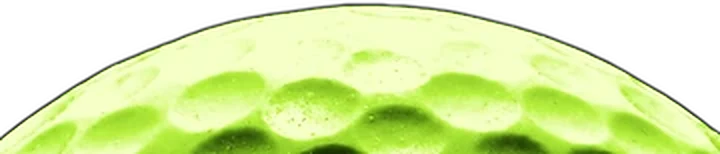
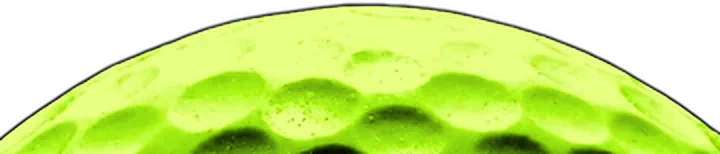
Lift the photo cap clear of the open sheet and the mic.
Raise the open scroll so the last row stays above the ball, let the full mic target receive taps, and push the lime, halo, and olive closer to the approved preview.

diff --git a/apps/mobile/app/play.tsx b/apps/mobile/app/play.tsx
@@ -1203,12 +1203,12 @@ export default function PlayScreen() {
                 <ThruBar label={thru.label} pips={thru.pips} />
               </View>
             ) : (
-              <View style={styles.tipCard}>
-                <Text style={styles.spark}>✦</Text>
-                <View style={styles.clubCopy}>
+              <View style={styles.tipCard} pointerEvents="box-none">
+                <Text pointerEvents="none" style={styles.spark}>✦</Text>
+                <View style={styles.clubCopy} pointerEvents="box-none">
                   {player == null && manual == null ? (
-                    <View style={styles.clubHead}>
-                      <Text style={[styles.line, styles.clubHeadTitle]}>Waiting for GPS</Text>
+                    <View style={styles.clubHead} pointerEvents="box-none">
+                      <Text pointerEvents="box-none" style={[styles.line, styles.clubHeadTitle]}>Waiting for GPS</Text>
                       <DictateButton
                         live={talk.phase !== 'idle'}
                         onPress={() => {
@@ -1219,9 +1219,9 @@ export default function PlayScreen() {
                     </View>
                   ) : (
                     <>
-                      <View style={styles.clubHead}>
-                        <Text style={[styles.tipTitle, styles.clubHeadTitle]} numberOfLines={1}>{`${shownLabel ?? 'Club'} · Hole ${hole.holeNumber}`}</Text>
-                        <Text style={styles.clubMeta}>{updatedLabel}</Text>
+                      <View style={styles.clubHead} pointerEvents="box-none">
+                        <Text pointerEvents="box-none" style={[styles.tipTitle, styles.clubHeadTitle]} numberOfLines={1}>{`${shownLabel ?? 'Club'} · Hole ${hole.holeNumber}`}</Text>
+                        <Text pointerEvents="box-none" style={styles.clubMeta}>{updatedLabel}</Text>
                         <DictateButton
                           live={talk.phase !== 'idle'}
                           onPress={() => {
@@ -1231,11 +1231,11 @@ export default function PlayScreen() {
                         />
                       </View>
                       {oneLiner ? (
-                        <Text style={styles.line} numberOfLines={2}>
+                        <Text pointerEvents="box-none" style={styles.line} numberOfLines={2}>
                           {oneLiner}
                         </Text>
                       ) : null}
-                      <Text style={styles.carrySentence}>
+                      <Text pointerEvents="box-none" style={styles.carrySentence}>
                         {carryYards == null ? (
                           `Carry not measured. ${PATTERN_INVITE}.`
                         ) : (
@@ -1495,12 +1495,12 @@ const styles = StyleSheet.create({
   tipCard: { flexDirection: 'row', gap: 8, alignItems: 'flex-start' },
   spark: { color: '#8AC926', fontSize: 14, lineHeight: 14 },
   tipTitle: { color: '#FFFFFF', fontFamily: font.family, fontSize: 13, lineHeight: 16, fontWeight: '700' },
-  clubHead: { flexDirection: 'row', alignItems: 'center', gap: 8, minHeight: 18, overflow: 'visible' },
+  clubHead: { flexDirection: 'row', alignItems: 'center', gap: 8, minHeight: 18, overflow: 'visible', zIndex: 6 },
   clubHeadTitle: { flex: 1 },
   carrySentence: { color: '#FFFFFF', fontFamily: font.family, fontSize: 14, lineHeight: 14, fontWeight: '600' },
   carryNum: { color: '#FFFFFF', fontSize: 16, lineHeight: 18, fontWeight: '700', fontVariant: ['tabular-nums'] },
   micSlot: { width: 30, height: 18, overflow: 'visible' },
-  micHit: { position: 'absolute', width: 44, height: 44, top: -20, left: -7, alignItems: 'center', justifyContent: 'center' },
+  micHit: { position: 'absolute', width: 44, height: 44, top: -20, left: -7, alignItems: 'center', justifyContent: 'center', zIndex: 6 },
   micButton: {
     width: 28,
     height: 28,
@@ -1626,7 +1626,7 @@ const styles = StyleSheet.create({
   sheet: { position: 'absolute', left: 12, right: 12, overflow: 'hidden' },
   sheetGlass: { flex: 1 },
   sheetFill: { flex: 1, minHeight: 0 },
-  grab: { paddingTop: 0, paddingHorizontal: 12, paddingBottom: 0, zIndex: 1 },
+  grab: { paddingTop: 0, paddingHorizontal: 12, paddingBottom: 0, zIndex: 4 },
   tipHit: { marginTop: 2 },
   tip: { color: '#FFFFFF', fontFamily: font.family, fontSize: type.caption, lineHeight: 18, fontWeight: font.semibold },
   tipLink: { color: '#FFFFFF', fontFamily: font.family, fontSize: type.caption, lineHeight: 18, fontWeight: font.semibold, textDecorationLine: 'underline' },

diff --git a/apps/mobile/test/sheet-ball.test.ts b/apps/mobile/test/sheet-ball.test.ts
@@ -28,21 +28,21 @@ describe('sheet ball', () => {
   it('uses the doubled photo cap and keeps the crown under the type', () => {
     const asset = readFileSync(join(here, '../assets/images/ball-lime.webp'));
     expect(webpSize(asset)).toEqual({ width: 720, height: 154 });
-    expect(SHEET_BALL_CROWN).toBe(76);
-    expect(SHEET_BALL_CAP_HEIGHT).toBe(78);
+    expect(SHEET_BALL_CROWN).toBe(78);
+    expect(SHEET_BALL_CAP_HEIGHT).toBe(80);
     expect(oliveHeight(176)).toBe(176);
     expect(oliveHeight(540)).toBe(SHEET_BALL_OLIVE_OPEN);
     expect(oliveHeight(200)).toBe(200);
     expect(oliveHeight(400)).toBe(310);
-    expect(SHEET_BALL_TEXT.openPx).toBeGreaterThanOrEqual(86);
-    expect(SHEET_BALL_TEXT.openPx).toBeGreaterThan(SHEET_BALL_CROWN);
+    expect(SHEET_BALL_TEXT.openPx).toBeGreaterThanOrEqual(98);
+    expect(SHEET_BALL_TEXT.openPx).toBeGreaterThan(SHEET_BALL_CROWN + 8);
     expect(SHEET_BALL_TEXT.closedPx).toBeGreaterThanOrEqual(6);
   });
 
   it('keeps the mic, the tab gap, and the open-sheet fades', () => {
     expect(SHEET_BALL_SCROLL_FADE).toBe(48);
-    expect(SHEET_BALL_SCROLL_FADE_BOTTOM).toBe(18);
-    expect(SHEET_BALL_SCROLL_FADE_BOTTOM).toBeLessThan(24);
+    expect(SHEET_BALL_SCROLL_FADE_BOTTOM).toBe(8);
+    expect(SHEET_BALL_SCROLL_FADE_BOTTOM).toBeLessThan(12);
     const play = readFileSync(join(here, '../app/play.tsx'), 'utf8');
     expect(play).toContain('marginTop: SHEET_BALL_TEXT.closedPx');
     expect(play).not.toContain('!sheetOpen ? { marginTop: SHEET_BALL_TEXT.closedPx }');
@@ -56,6 +56,8 @@ describe('sheet ball', () => {
     expect(play).toContain('Dictate to caddie');
     expect(play).toContain('width: 44');
     expect(play).toContain('width: 28');
+    expect(play).toContain('zIndex: 6');
+    expect(play).toContain('pointerEvents="box-none"');
     expect(play).not.toContain('Talk to the caddie');
     expect(play).not.toContain('styles.micRow');
     const source = readFileSync(join(here, '../src/design/sheet-ball.tsx'), 'utf8');
@@ -63,10 +65,12 @@ describe('sheet ball', () => {
     expect(source).toContain('#0A0E04');
     expect(source).toContain('#243008');
     expect(source).toContain('#3C4E0C');
-    expect(source).toContain('#607E14');
+    expect(source).toContain('#A4CC3A');
     expect(source).toContain('#BEF546');
+    expect(source).toContain('stopOpacity="1"');
     expect(source).toContain('#8AC926');
     expect(source).toContain('#A0E132');
+    expect(source).toContain('stopOpacity="0.88"');
     expect(source).toContain('resizeMode="stretch"');
     expect(source).toContain('fadeDuration={0}');
     expect(source).toContain('pointerEvents="none"');

diff --git a/apps/mobile/src/design/sheet-ball.tsx b/apps/mobile/src/design/sheet-ball.tsx
@@ -39,28 +39,30 @@ export function SheetBall({ reduceMotion }: { reduceMotion: boolean }) {
         <Defs>
           <LinearGradient id="sheetball-olive" x1="0" y1="0" x2="0" y2="1">
             <Stop offset="0" stopColor="#0A0E04" stopOpacity="0" />
-            <Stop offset="0.45" stopColor="#243008" stopOpacity="0.52" />
-            <Stop offset="0.76" stopColor="#3C4E0C" stopOpacity="0.64" />
-            <Stop offset="1" stopColor="#607E14" stopOpacity="0.88" />
+            <Stop offset="0.42" stopColor="#243008" stopOpacity="0.50" />
+            <Stop offset="0.58" stopColor="#3C4E0C" stopOpacity="0.34" />
+            <Stop offset="0.74" stopColor="#6A8A22" stopOpacity="0.20" />
+            <Stop offset="1" stopColor="#A4CC3A" stopOpacity="0.08" />
           </LinearGradient>
           <RadialGradient id="sheetball-halo" cx="50%" cy="50%" r="50%">
-            <Stop offset="0" stopColor="#BEF546" stopOpacity="0.95" />
-            <Stop offset="0.487" stopColor="#8AC926" stopOpacity="0.62" />
+            <Stop offset="0" stopColor="#BEF546" stopOpacity="1" />
+            <Stop offset="0.55" stopColor="#A8E030" stopOpacity="0.92" />
+            <Stop offset="0.78" stopColor="#8AC926" stopOpacity="0.5" />
             <Stop offset="1" stopColor="#8AC926" stopOpacity="0" />
           </RadialGradient>
           <RadialGradient id="sheetball-spill-l" cx="50%" cy="50%" r="50%">
-            <Stop offset="0" stopColor="#A0E132" stopOpacity="0.7" />
+            <Stop offset="0" stopColor="#A0E132" stopOpacity="0.88" />
             <Stop offset="1" stopColor="#A0E132" stopOpacity="0" />
           </RadialGradient>
           <RadialGradient id="sheetball-spill-r" cx="50%" cy="50%" r="50%">
-            <Stop offset="0" stopColor="#A0E132" stopOpacity="0.7" />
+            <Stop offset="0" stopColor="#A0E132" stopOpacity="0.88" />
             <Stop offset="1" stopColor="#A0E132" stopOpacity="0" />
           </RadialGradient>
         </Defs>
         <Rect x="0" y={h - olive} width={w} height={olive} fill="url(#sheetball-olive)" />
-        <Ellipse cx={w / 2} cy={h + 30.6} rx={w * 0.624} ry={126} fill="url(#sheetball-halo)" />
-        <Ellipse cx={0} cy={h} rx={87} ry={84} fill="url(#sheetball-spill-l)" />
-        <Ellipse cx={w} cy={h} rx={87} ry={84} fill="url(#sheetball-spill-r)" />
+        <Ellipse cx={w / 2} cy={h + 16} rx={w * 0.66} ry={118} fill="url(#sheetball-halo)" />
+        <Ellipse cx={0} cy={h} rx={96} ry={92} fill="url(#sheetball-spill-l)" />
+        <Ellipse cx={w} cy={h} rx={96} ry={92} fill="url(#sheetball-spill-r)" />
       </Svg>
       <Image
         source={ballSource}

diff --git a/apps/mobile/src/design/sheet-ball-geometry.ts b/apps/mobile/src/design/sheet-ball-geometry.ts
@@ -1,8 +1,8 @@
 /** Crown of the photo cap, in dp above the sheet bottom. */
-export const SHEET_BALL_CROWN = 76;
+export const SHEET_BALL_CROWN = 78;
 
 /** Fixed height of the ball image. The rim sits just inside the top of this box. */
-export const SHEET_BALL_CAP_HEIGHT = 78;
+export const SHEET_BALL_CAP_HEIGHT = 80;
 
 /** Open sheet olive stops here. Taller sheets do not grow the wash. */
 export const SHEET_BALL_OLIVE_OPEN = 310;
@@ -16,14 +16,14 @@ export const SHEET_BALL_OLIVE_FULL_UNTIL = 220;
 /** Top of the open scroll. Glyphs dissolve here instead of being cut. */
 export const SHEET_BALL_SCROLL_FADE = 48;
 
-/** Bottom of the open scroll. Short, so the last full line stays opaque. */
-export const SHEET_BALL_SCROLL_FADE_BOTTOM = 18;
+/** Bottom of the open scroll. A short feather, so a line at rest is not dissolved in half. */
+export const SHEET_BALL_SCROLL_FADE_BOTTOM = 8;
 
 /**
  * Closed: gap under the Course / Coach AI / Stats row.
  * Open: the scroll ends above the photo cap.
  */
-export const SHEET_BALL_TEXT = { closedPx: 8, openPx: 86 } as const;
+export const SHEET_BALL_TEXT = { closedPx: 8, openPx: 98 } as const;
 
 /**
  * Olive wash height for a sheet of `sheetHeight` dp.
